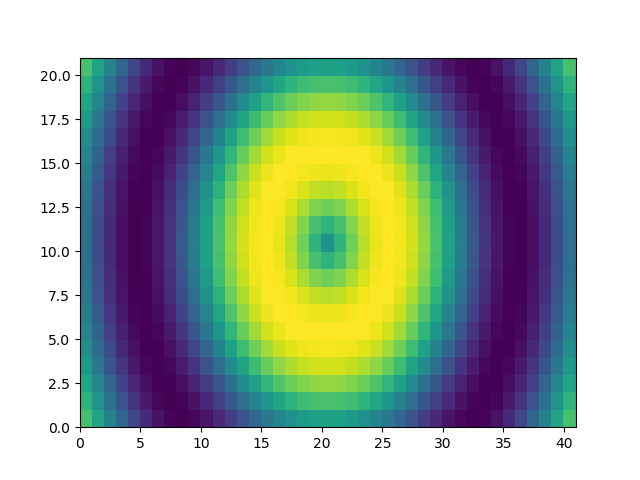
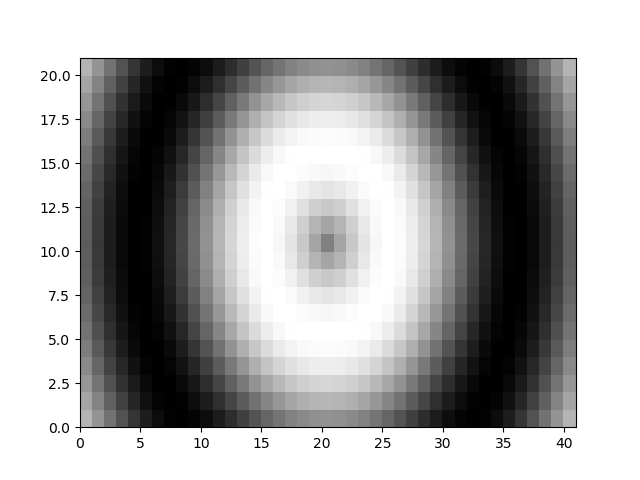
Random Image collapse - rebuild

diff --git a/read_img.py b/read_img.py
@@ -1,21 +1,25 @@
 import numpy as np
-import pandas as pd
+import scipy.misc
 import matplotlib.pyplot as plt
+from IPython import get_ipython
+get_ipython().run_line_magic('matplotlib', 'qt5')
+
+matrix1 = np.random.uniform(low=0, high=1, size=100)
+matrix2 = np.random.uniform(low=0, high=1, size=100)
+
+matrix = np.array([matrix1, matrix2])
 
 img = plt.imread('eitcrop.png')
-shape = img.shape[0]
-numbers = list(range(1, shape))
-plt.axis('off')
-plt.imshow(img)
-
 collapsed = img.mean(axis=2)
-x = list(collapsed[0])
-y = list(collapsed[1])
-plt.hist2d(x, y)
-plt.colorbar()
-plt.show()
 
-print(collapsed.shape)
+x = collapsed.ravel()
+y = img.ravel()
+
+
+#plt.hist(x, edgecolor='black', bins = list(np.arange(0.0, 1.0, 0.05)))
+#plt.savefig('histogram.jpg')
+#plt.show()
+
 plt.set_cmap('gray')
 plt.imshow(collapsed, cmap='gray')
 plt.axis('off')

diff --git a/histogram.py b/histogram.py
@@ -1,0 +1,6 @@
+import matplotlib.pyplot as plt
+import numpy as np
+x = np.random.normal(size = 1000)
+plt.hist(x, normed=True, bins=30)
+plt.ylabel('Probability')
+plt.show()

diff --git a/two_d.py b/two_d.py
@@ -1,0 +1,6 @@
+import numpy as np 
+x = np.array([1, 2, 3, 4, 5])
+y = np.array([7, 8, 2, 4, 1])
+
+z = np.array([x, y])
+print(z)
